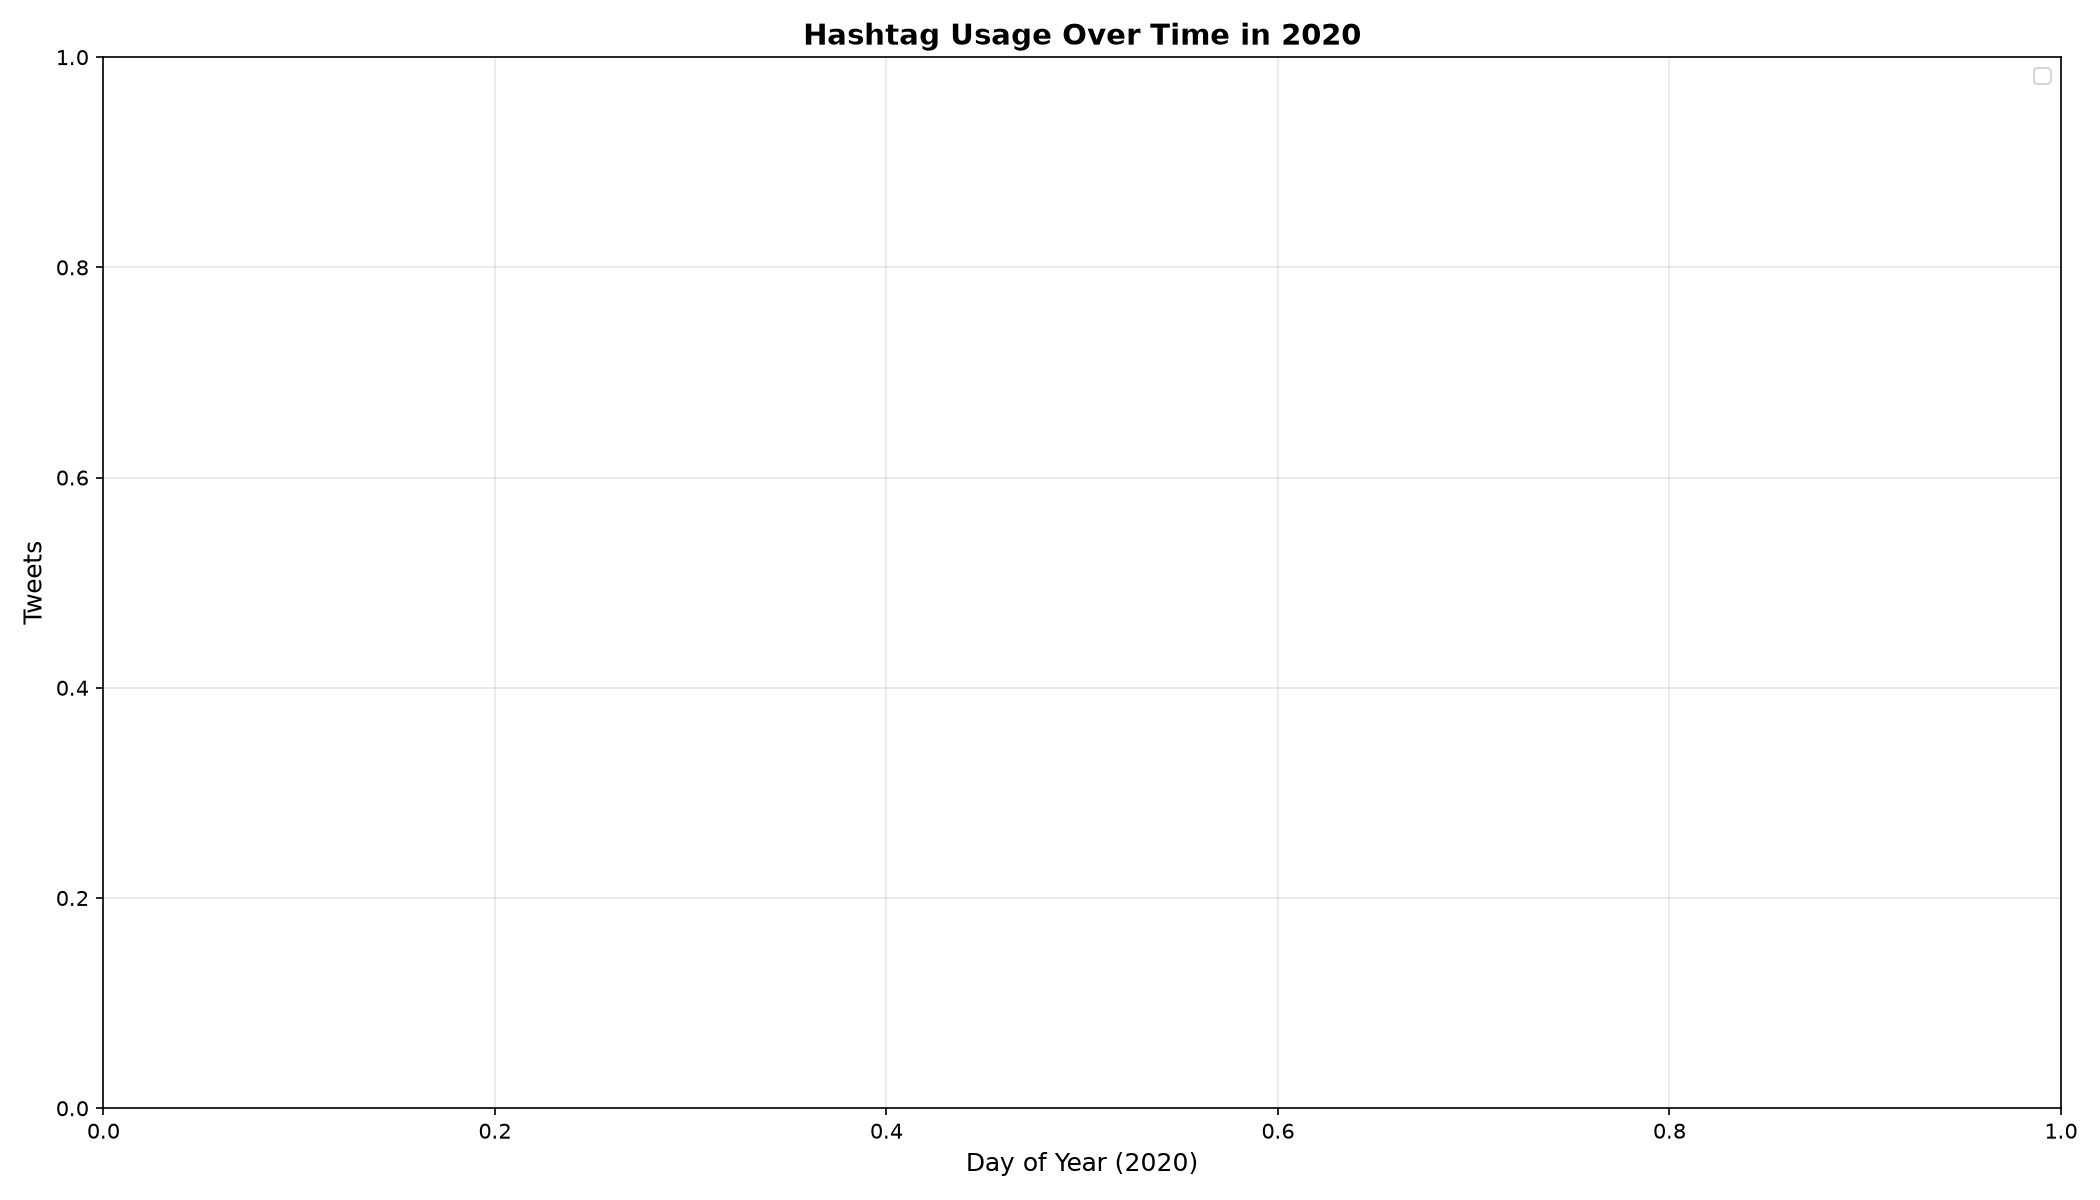
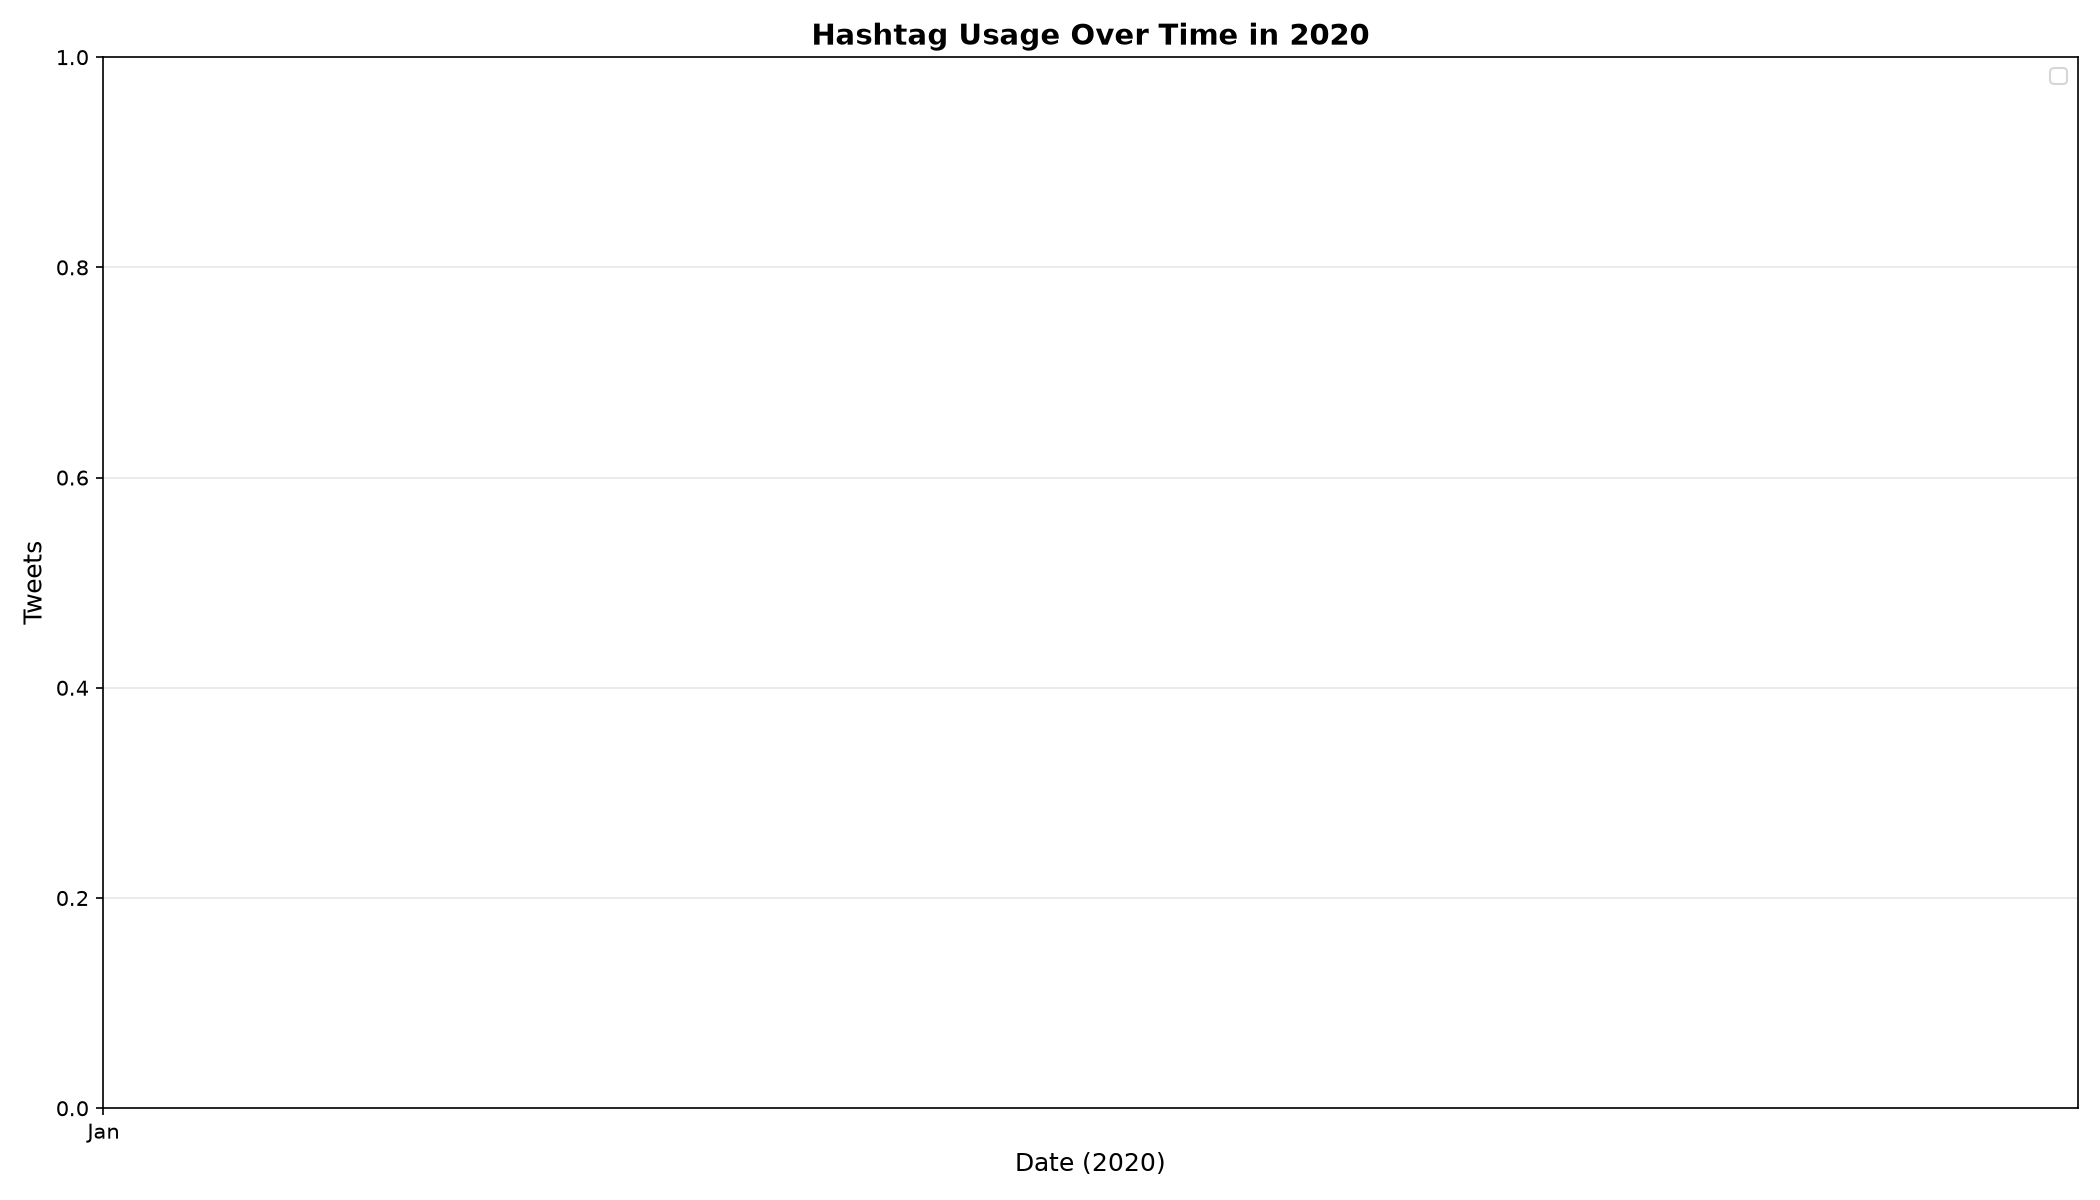
lineplot maybe?

diff --git a/src/alternative_reduce.py b/src/alternative_reduce.py
@@ -5,7 +5,8 @@ from datetime import datetime
 import matplotlib
 matplotlib.use('Agg')  # CRITICAL: prevents interactive backend issues
 import matplotlib.pyplot as plt
-
+import matplotlib.dates as mdates  # ADDED: For date-formatted x-axis ticks
+ 
 parser = argparse.ArgumentParser()
 parser.add_argument('--hashtags', nargs='+', required=True, help='Hashtags to plot')
 parser.add_argument('--output_file', default='hashtag_lineplot.png', help='Output PNG')
@@ -20,14 +21,15 @@ for fp in files:
     try:
         d = fn.split('geoTwitter')[1].split('.zip')[0]
         year = 2000 + int(d.split('-')[0])
-        doy = datetime(year, int(d.split('-')[1]), int(d.split('-')[2])).timetuple().tm_yday
+        # ADDED: Store actual datetime objects instead of day-of-year integers
+        dt = datetime(year, int(d.split('-')[1]), int(d.split('-')[2]))
     except Exception:
-        print(f"skip {fn}"); continue
+         print(f"skip {fn}"); continue
 
     with open(fp) as f: counts = json.load(f)
     for ht in args.hashtags:
         if ht in counts:
-            data[ht][doy] = sum(counts[ht].values())
+            data[ht][dt] = sum(counts[ht].values())  # Storing datetime key
 
 fig, ax = plt.subplots(figsize=(14,8))
 for ht in args.hashtags:
@@ -35,12 +37,15 @@ for ht in args.hashtags:
         days = sorted(data[ht])
         ax.plot(days, [data[ht][d] for d in days], marker='o', ms=2, label=ht, lw=1.5)
     else:
-        print(f"No data: {ht}")
+         print(f"No data: {ht}")
 
-ax.set_xlabel('Day of Year (2020)', fontsize=12)
+# ADDED: Format X-axis to display month names (e.g., 'Jan', 'Feb')
+ax.xaxis.set_major_locator(mdates.MonthLocator())
+ax.xaxis.set_major_formatter(mdates.DateFormatter('%b'))
+
+ax.set_xlabel('Date (2020)', fontsize=12)
 ax.set_ylabel('Tweets', fontsize=12)
 ax.set_title('Hashtag Usage Over Time in 2020', fontsize=14, fontweight='bold')
 ax.legend(loc='best'); ax.grid(alpha=.3); fig.tight_layout()
 fig.savefig(args.output_file, dpi=150)
 print(f"Saved {args.output_file}")
-
